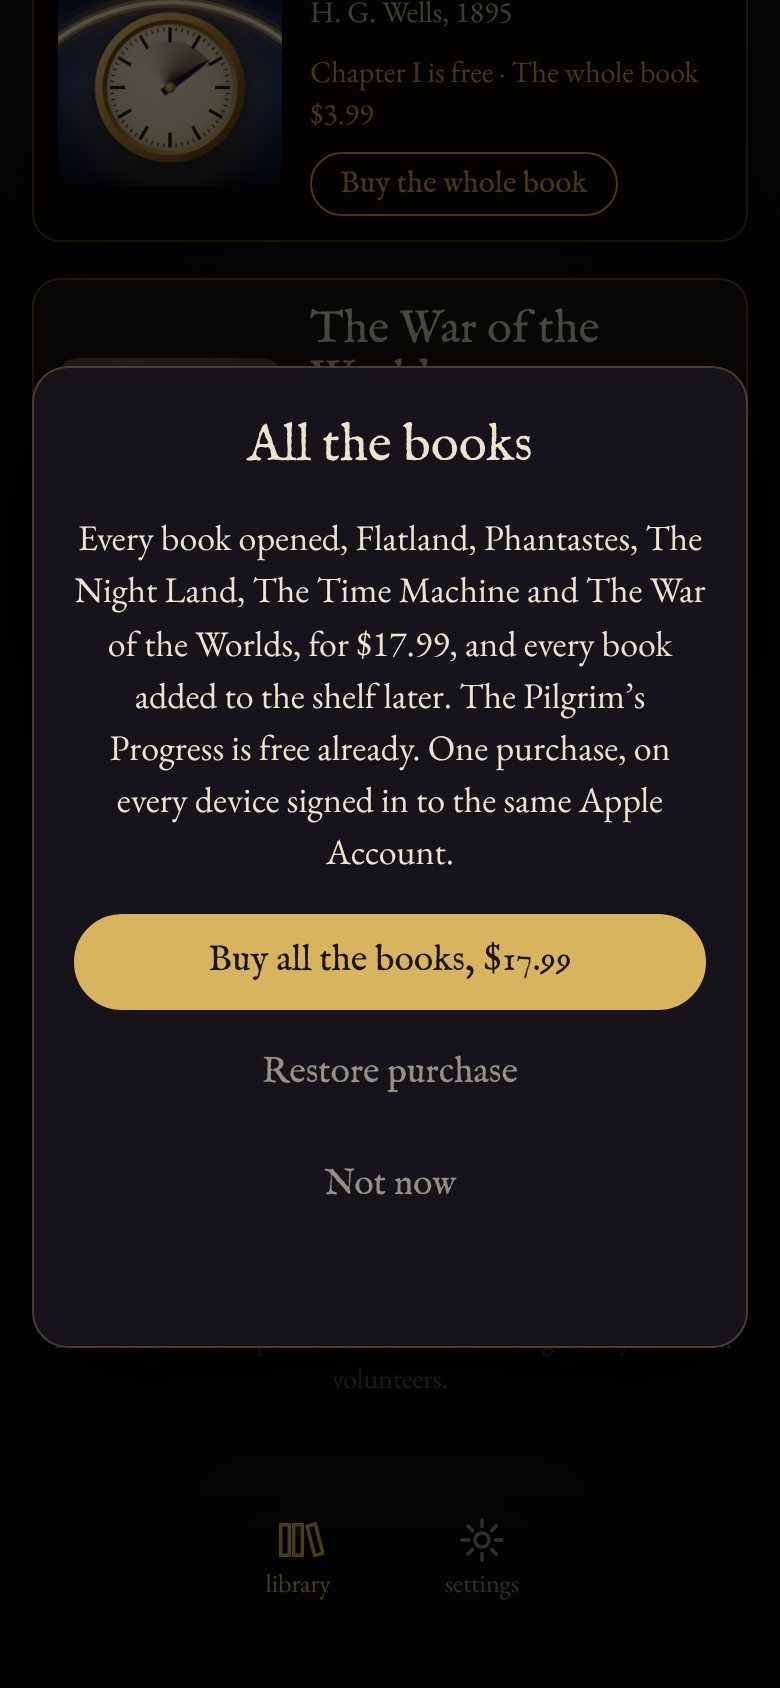
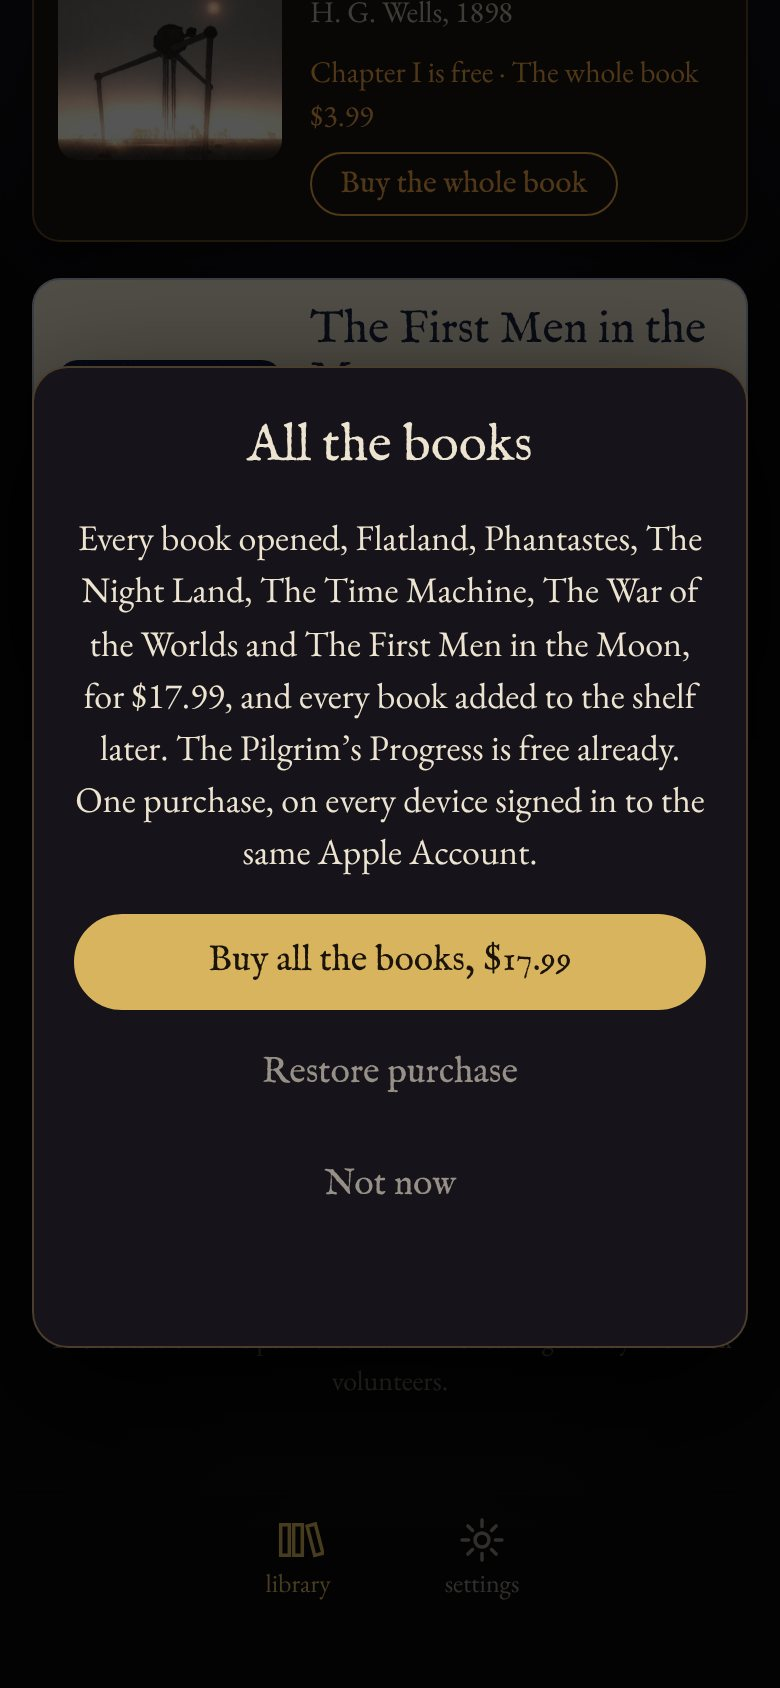
Other Worlds: The First Men in the Moon, the seventh book, in three dresses (#28)
The marketing page, the support page's section for the book and its dresses, privacy, and the shelf and offer pictures with seven books.

Claude-Session: https://claude.ai/code/session_01FfMDvRgHvfCT1WjNG6YAcF

diff --git a/other-worlds/support/index.html b/other-worlds/support/index.html
@@ -4,7 +4,7 @@
 <meta charset="utf-8">
 <meta name="viewport" content="width=device-width, initial-scale=1, viewport-fit=cover">
 <title>Other Worlds Support</title>
-<meta name="description" content="Help with Other Worlds, six immersive editions in one app, for iPhone, iPad and Android.">
+<meta name="description" content="Help with Other Worlds, seven immersive editions in one app, for iPhone, iPad and Android.">
 <link rel="icon" href="../icon.png">
 <link rel="preconnect" href="https://fonts.googleapis.com">
 <link rel="preconnect" href="https://fonts.gstatic.com" crossorigin>
@@ -45,14 +45,14 @@
   <p class="hint">Say which device you’re using, which book, and what happened, and you’ll get a reply as soon as possible.</p>
 
   <h2>The shelf</h2>
-  <p>Other Worlds opens on a shelf of six books: Flatland, Phantastes, The Pilgrim’s Progress, The Night Land, The Time Machine and The War of the Worlds. Tap a book to open it at its own title page. From there, <strong>Back to the library</strong> returns to the shelf; inside a book, <strong>home</strong> in the bar returns to that book’s title page. On Android, the back gesture closes whatever is open in the book, then goes back to the shelf.</p>
+  <p>Other Worlds opens on a shelf of seven books: Flatland, Phantastes, The Pilgrim’s Progress, The Night Land, The Time Machine, The War of the Worlds and The First Men in the Moon. Tap a book to open it at its own title page. From there, <strong>Back to the library</strong> returns to the shelf; inside a book, <strong>home</strong> in the bar returns to that book’s title page. On Android, the back gesture closes whatever is open in the book, then goes back to the shelf.</p>
 
   <h2>What’s free, and what the purchases open</h2>
-  <p>The first chapter of every book is free, with what comes before it and with everything its edition does: Flatland’s first section, the mottoes and Chapter I of Phantastes, the prologue and Chapter I of The Night Land, Chapter I of The Time Machine and of The War of the Worlds. <strong>The Pilgrim’s Progress is free, all of it.</strong></p>
+  <p>The first chapter of every book is free, with what comes before it and with everything its edition does: Flatland’s first section, the mottoes and Chapter I of Phantastes, the prologue and Chapter I of The Night Land, Chapter I of The Time Machine, of The War of the Worlds and of The First Men in the Moon. <strong>The Pilgrim’s Progress is free, all of it.</strong></p>
   <p>Two kinds of in-app purchase open the rest, once, with no subscription and no ads:</p>
   <ul>
-    <li><strong>The whole book</strong> ($3.99 in the US), one for each of the five other books, opens that book.</li>
-    <li><strong>All the books</strong> ($17.99 in the US) opens all five, and every book added to Other Worlds later, at no further cost.</li>
+    <li><strong>The whole book</strong> ($3.99 in the US), one for each of the six other books, opens that book.</li>
+    <li><strong>All the books</strong> ($17.99 in the US) opens all six, and every book added to Other Worlds later, at no further cost.</li>
   </ul>
   <p>The shelf shows your own store’s price under each book. Tap <strong>Buy the whole book</strong> under a book, or <strong>Buy all the books</strong> beneath the shelf; inside a book, the offer appears where its free part ends. If you’ve bought a book on its own, you can still buy all the books later for the others.</p>
 
@@ -75,8 +75,18 @@
     <li><a href="../../the-night-land/support/">The Night Land</a></li>
     <li><a href="../../the-time-machine/support/">The Time Machine</a></li>
     <li><a href="../../the-war-of-the-worlds/support/">The War of the Worlds</a></li>
+    <li><a href="#the-first-men-in-the-moon">The First Men in the Moon</a>, below: it was made for Other Worlds and has no app of its own</li>
   </ul>
   <p class="hint">Those pages speak of each book’s single purchase; in Other Worlds, All the books opens each of them as well.</p>
+
+  <h2 id="the-first-men-in-the-moon">The First Men in the Moon</h2>
+  <p>H. G. Wells’s novel of 1901, complete, read aloud by Cliff Stone for LibriVox, each word lit as it is spoken, with Claude Shepperson’s plates from the first edition. It was made for Other Worlds and can be read in <strong>three dresses</strong>. Choose one on the book’s title page, under <strong>Read it as</strong>, or in its Settings, under <strong>The dress</strong>; change at any time and the book opens again at the same place, the reading at the same moment. The text, the reading and your place are the same in all three; what is drawn beside the text, the sound and music, and the places to explore are each dress’s own.</p>
+  <ul>
+    <li><strong>Through the Glass</strong>: the voyage seen through windows, round, in a brass frame (Bedford’s window at Lympne, the sphere’s glass with its Cavorite blinds, the Moon through the glass and through the Selenites’ grating). Its places, on the bar: <strong>steer</strong>, the sphere to work by its twelve blinds and fall home as Bedford did (once you have read to Chapter XX), and <strong>inside</strong>, the sphere’s round room, each thing in it with the words that tell it. On iPhone Duo, opened, you read inside the sphere; open the phone and the blinds shut, and the words float loose before they settle.</li>
+    <li><strong>The Lunar Day</strong>: the world painted at Bedford’s eye-height, the crater kept to the sun’s own time, from the dawn to the coming night. Its places: <strong>crater</strong>, the search for the sphere (touch and hold to gather, let go to leap; find the sphere before the cliff’s shadow reaches you; once you have read to Chapter XVIII), and <strong>dawn</strong>, the lunar dawn to watch. On iPhone Duo, opened, the crater stands from rim to rim with the sun’s arc; open the phone and you make Bedford’s first slow leap.</li>
+    <li><strong>The Moon Within</strong>: Cavor’s cut-away, in blue on cream, each part drawn in when the text first tells of it, with “Drawn in” beside the paragraph. Its places: <strong>cut-away</strong>, the drawings full size (drag, pinch or the magnifiers; tap a part for the words that told it), and <strong>messages</strong>, Cavor’s signals as Mr. Wendigee received them, from Chapter XXII. On iPhone Duo, opened, the Moon is split open across the top; open the phone and the whole Moon cleaves in two.</li>
+  </ul>
+  <p>Chapter I, Mr. Bedford Meets Mr. Cavor at Lympne, is free, in all three dresses. <strong>The whole book</strong> ($3.99) opens the other twenty-five chapters in all three, with each dress’s places; <strong>All the books</strong> opens it too. What a dress’s places keep (a search won, the sphere brought home) is kept with your progress, and <strong>Reset progress</strong> forgets it; the dress you chose stays chosen.</p>
 
   <h2>Your place</h2>
   <p>Each book keeps your place and settings on that device, separately from the others, and its <strong>Continue</strong> takes you back. <strong>Reset progress</strong> and <strong>Keep my place on this device</strong> are in each book’s own Settings, under <strong>Your progress</strong>, and touch only that book. Your place doesn’t sync between devices.</p>
@@ -90,6 +100,7 @@
     <li><strong>The Night Land</strong>: a dying world, frequent dread (the Watchers, the Night-Hounds, the House of Silence) and fighting with monsters.</li>
     <li><strong>The Time Machine</strong>: the Morlocks in the dark, driven off with fire and an iron bar; a forest burns.</li>
     <li><strong>The War of the Worlds</strong>: the most intense: people burned by the Heat-Ray, towns on fire, a death, the dead in London’s streets, and the Martians feeding on blood.</li>
+    <li><strong>The First Men in the Moon</strong>: peril on the Moon, a fight with Selenites in which Bedford kills several with a crowbar, the carcasses of a butchers’ cave, and Cavor’s fate left dark at the end.</li>
   </ul>
   <p>The app has <strong>no chat, no accounts, no advertising and nothing shared with other people</strong>, and it collects no data. It doesn’t browse the web: its only links out are to these help and privacy pages and to LibriVox, where the readings come from, and they open in the phone’s own browser. Its purchases are made through the App Store or Google Play, so their family controls apply: on iPhone and iPad, <strong>Ask to Buy</strong> (Family Sharing) and Screen Time’s content and purchase restrictions; on Android, <strong>Google Family Link</strong> and Google Play’s purchase approvals.</p>
 
@@ -100,7 +111,7 @@
   <p>The app collects no data. There are no accounts, no analytics and no tracking. The full <a href="../privacy/">privacy policy</a> has the details.</p>
 
   <footer>
-    <p>The six books, their pictures and the LibriVox readings are in the public domain. The worlds drawn around them, the sound and music, the maps and each edition’s own places were made for these editions.</p>
+    <p>The seven books, their pictures and the LibriVox readings are in the public domain. The worlds drawn around them, the sound and music, the maps and each edition’s own places were made for these editions.</p>
   </footer>
 </main>
 </body>

diff --git a/other-worlds/index.html b/other-worlds/index.html
@@ -4,11 +4,11 @@
 <meta charset="utf-8">
 <meta name="viewport" content="width=device-width, initial-scale=1, viewport-fit=cover">
 <title>Other Worlds App</title>
-<meta name="description" content="Six classic journeys beyond the world we see, in one app: Flatland, Phantastes, The Pilgrim’s Progress, The Night Land, The Time Machine and The War of the Worlds, each read aloud word by word. For iPhone, iPad and Android.">
+<meta name="description" content="Seven classic journeys beyond the world we see, in one app: Flatland, Phantastes, The Pilgrim’s Progress, The Night Land, The Time Machine, The War of the Worlds and The First Men in the Moon, each read aloud word by word. For iPhone, iPad and Android.">
 <meta property="og:type" content="website">
 <meta property="og:url" content="https://cyberfugue.github.io/other-worlds/">
 <meta property="og:title" content="Other Worlds, for iPhone, iPad and Android">
-<meta property="og:description" content="Six classic journeys, each read aloud word by word and set inside its own world.">
+<meta property="og:description" content="Seven classic journeys, each read aloud word by word and set inside its own world.">
 <meta property="og:image" content="https://cyberfugue.github.io/other-worlds/img/share.jpg">
 <meta property="og:image:width" content="1200">
 <meta property="og:image:height" content="800">
@@ -98,9 +98,9 @@
 
 <header class="hero">
   <img src="img/hero.jpg" alt="Six arched windows on a gilt sill under the stars, each looking into one book’s world: a sphere over a plane, a moonlit wood, a pilgrim on the road to a golden city, a pyramid of lights on a dark plain, a sunlit far future, and a Martian fighting-machine against a burning sky" width="1920" height="823">
-  <p class="kicker">Six immersive editions · iPhone, iPad and Android</p>
+  <p class="kicker">Seven immersive editions · iPhone, iPad and Android</p>
   <h1>Other Worlds</h1>
-  <p class="lede">Six journeys beyond the world we see, in one app. Read each book whole, hear it read aloud word by word, and step into the world it describes.</p>
+  <p class="lede">Seven journeys beyond the world we see, in one app. Read each book whole, hear it read aloud word by word, and step into the world it describes.</p>
   <div class="ctas">
     <!-- when the app is live, make this a link to its App Store page and drop "soon" -->
     <span class="btn soon">Coming soon to the App Store</span>
@@ -111,8 +111,8 @@
 <section>
   <div class="intro">
     <h2>A shelf of strange journeys</h2>
-    <p>A Square lifted out of his flat world. A young man waking to find his room become a wood. A pilgrim on the road to the Celestial City. The last of humankind in a pyramid under a dead sun. A traveller in time. Martians on Horsell Common.</p>
-    <p>Each of these six books was made into an edition of its own, with its own world around the text, its own reading voices and its own places to explore. Other Worlds puts them on one shelf.</p>
+    <p>A Square lifted out of his flat world. A young man waking to find his room become a wood. A pilgrim on the road to the Celestial City. The last of humankind in a pyramid under a dead sun. A traveller in time. Martians on Horsell Common. Two men in a sphere of Cavorite, falling toward the Moon.</p>
+    <p>Each of these seven books was made into an edition of its own, with its own world around the text, its own reading voices and its own places to explore. Other Worlds puts them on one shelf.</p>
   </div>
 
   <div class="wrap">
@@ -171,6 +171,15 @@
           <p class="free">Chapter I free · <a href="../the-war-of-the-worlds/">More about The War of the Worlds</a></p>
         </div>
       </li>
+      <li class="book" style="--b-ground:#efe6d1;--b-ink:#1b2440;--b-accent:#2c6db5">
+        <img src="img/the-first-men-in-the-moon.jpg" alt="" width="1920" height="823" loading="lazy">
+        <div>
+          <h3>The First Men in the Moon</h3>
+          <p class="by">H. G. Wells, 1901</p>
+          <p>Cavor’s sphere of Cavorite carries him and Mr. Bedford to the Moon, and down inside it. Read it in the dress you choose: through the sphere’s windows, with its Cavorite blinds to steer by; the crater painted in the sun’s own time; or Cavor’s cut-away of the Moon. With Claude Shepperson’s plates of 1901.</p>
+          <p class="free">Chapter I free · <a href="support/#the-first-men-in-the-moon">How it works</a></p>
+        </div>
+      </li>
     </ul>
   </div>
 </section>
@@ -221,7 +230,7 @@
     <div class="card all">
       <h3>All the books · $17.99</h3>
       <ul>
-        <li>Flatland, Phantastes, The Night Land, The Time Machine and The War of the Worlds, whole</li>
+        <li>Flatland, Phantastes, The Night Land, The Time Machine, The War of the Worlds and The First Men in the Moon, whole</li>
         <li>Every book added to Other Worlds later, at no further cost</li>
         <li>One purchase, once</li>
         <li>Restore it free on your other devices</li>
@@ -243,7 +252,7 @@
     <a href="support/">Support</a>
     <a href="privacy/">Privacy</a>
   </nav>
-  <p>Other Worlds · six immersive editions in one app</p>
+  <p>Other Worlds · seven immersive editions in one app</p>
 </footer>
 
 </body>

diff --git a/other-worlds/privacy/index.html b/other-worlds/privacy/index.html
@@ -4,7 +4,7 @@
 <meta charset="utf-8">
 <meta name="viewport" content="width=device-width, initial-scale=1, viewport-fit=cover">
 <title>Other Worlds Privacy</title>
-<meta name="description" content="The privacy policy of Other Worlds, six immersive editions in one app, for iPhone, iPad and Android.">
+<meta name="description" content="The privacy policy of Other Worlds, seven immersive editions in one app, for iPhone, iPad and Android.">
 <link rel="icon" href="../icon.png">
 <link rel="preconnect" href="https://fonts.googleapis.com">
 <link rel="preconnect" href="https://fonts.gstatic.com" crossorigin>
@@ -42,7 +42,7 @@
   </div>
 
   <h2>What stays on your device</h2>
-  <p>So that you can carry on where you left off, each of the six books keeps a few things on your phone or tablet: your place in it, how far you have read, what you have seen and done in its own places, and your settings for it (text size, sound and music levels, who reads, and its reading aids). The shelf keeps which book you last opened and what the store said you own, so it can show it at once. Each book’s reading, once downloaded, is kept on the device too, until you remove it; on iPhone and iPad it is left out of your backups, since it can always be downloaded again. All of this stays on your device. It isn’t sent anywhere and we can’t see it. Deleting the app deletes it.</p>
+  <p>So that you can carry on where you left off, each of the seven books keeps a few things on your phone or tablet: your place in it, how far you have read, what you have seen and done in its own places, and your settings for it (text size, sound and music levels, who reads, its reading aids, and for The First Men in the Moon the dress you read it in). The shelf keeps which book you last opened and what the store said you own, so it can show it at once. Each book’s reading, once downloaded, is kept on the device too, until you remove it; on iPhone and iPad it is left out of your backups, since it can always be downloaded again. All of this stays on your device. It isn’t sent anywhere and we can’t see it. Deleting the app deletes it.</p>
   <p>You choose whether each book keeps your progress. Under <strong>Your progress</strong> in that book’s Settings, turn off <strong>Keep my place on this device</strong> and it keeps nothing of your progress, forgetting what it had; <strong>Reset progress</strong> forgets it at once. Either way your settings stay as they are. To remove a downloaded reading, use <strong>Readings on this device</strong> in the shelf’s settings.</p>
 
   <h2>Network</h2>
